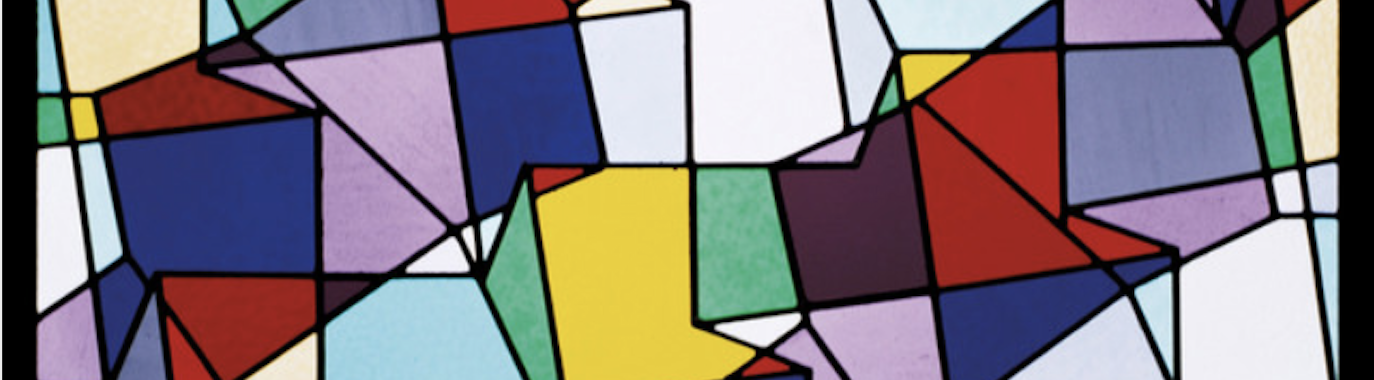
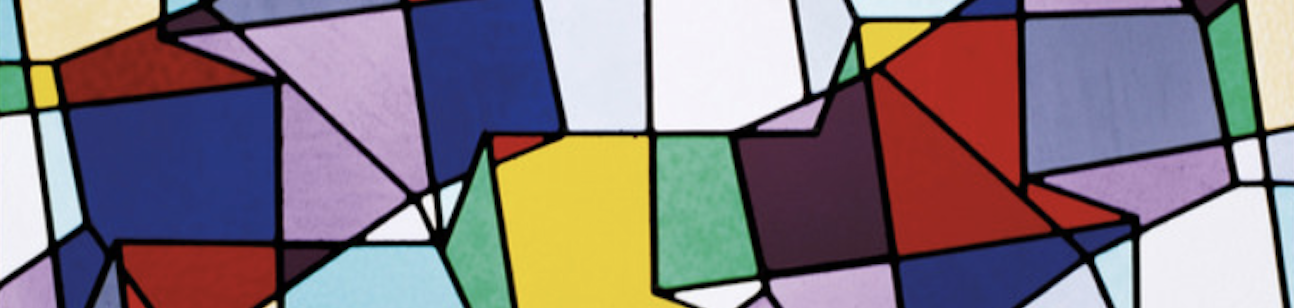
cv

diff --git a/cv.html b/cv.html
@@ -110,7 +110,7 @@ License URL: http://creativecommons.org/licenses/by/3.0/
 <div class="container">
 
 <p align="left" ><font size="5">Anthony Nouy</font></p>
-<p align="left" ><font size="3">Professor at Centrale Nantes</font></p>
+<p align="left" ><font size="3">Professor at Centrale Nantes, Nantes Université</font></p>
 <p align="left" ><font size="3">Department of Mathematics and Computer Science</font></p>
 <p align="left" ><font size="3">Laboratoire de Mathématiques Jean Leray, UMR CNRS 6629</font></p>
 <br>
@@ -161,13 +161,13 @@ Numerical analysis, Approximation theory, Probabilistic numerical methods, Stati
  (french research network) since 2021, and member of its  steering committee since 2011.</li>
 <li>Member of the Administration Board of <a href="http://smai.emath.fr/"> SMAI </a> (Société de Mathématiques Appliquées et Industrielles).</li>
 <li>Member of the bureau of the group <a href="http://smai.emath.fr/spip.php?article406"> SMAI-SIGMA </a> (Signal Image Geometry Modeling Approximation) since 2016.</li>
-<li>Member of the  steering committee of the <a href="https://www.gdr-mascotnum.fr/">  GDR Mascot-Num</a> since 2011.</li>
+<li>Member of the  steering committee of the <a href="https://www.gdr-mascotnum.fr/">  GDR Mascot-Num</a> since 2012.</li>
 <!--<li>Member of the  scientific committee of the <a href="https://calcul.math.cnrs.fr/">  GDR Calcul</a> since 2021.</li>-->
 </ul>
 <br>
 <p><font size="5">Other societal activities</font></p>
 <ul>
-<li> Participation to Research Groups : GDR MoMaS (2008-2011), GDR AMORE (since 2011), GDR MANU (since 2016).</li>
+<li> Participation to Research Groups : GDR MoMaS (2008-2011), GDR AMORE (since 2012), GDR MANU (since 2016), GDR Mascot-Num (since 2011).</li>
 <li> Expert for the funding program of the French National Research Agency (ANR) as member of committee (CES), 2018 et 2019.</li>
 <li> Expert for the funding program of the French National Research Agency (ANR).</li>
 <li> Expert for European Research Council. </li>
@@ -175,24 +175,23 @@ Numerical analysis, Approximation theory, Probabilistic numerical methods, Stati
 <li> Expert for the Swiss National Science Foundation.</li> 
 <li> Expert for INRIA. </li>
 <li> Expert for the funding programme of Ville de Paris.</li>
-<li> Expert for HCERES in 2018, 2019.</li>
-<li> Thesis reviewer at Ecole Normale Supérieure de Cachan, Université Blaise Pascal, Université de Technologie de Compiègne, Ecole des Mines de Douai, Université de Lille, Université Pierre et Marie Curie, Université Paris 13, University of Brno, Technische Universität Braunschweig, ETH Zurich, Université Paris-Est, Université Paris-Sud, Université Joseph Fourier, Université de La Rochelle, Université de Toulouse, Université de Rennes, Université Paris Sciences et Lettres, Université Paris-Saclay, Université de Liège, Université de Lyon, Université Paris Diderot, Université de recherche Paris Sciences et Lettres, Mines Saint-Etienne, Université de Tours, Université de Ulm, ENS Paris-Saclay, Université de Strasbourg.</li>
+<li> Expert for HCERES in 2018, 2019, 2021.</li>
+<li> Thesis reviewer (46) at Ecole Normale Supérieure de Cachan, Université Blaise Pascal, Université de Technologie de Compiègne, Ecole des Mines de Douai, Université de Lille, Université Pierre et Marie Curie, Université Paris 13, University of Brno, Technische Universität Braunschweig, ETH Zurich, Université Paris-Est, Université Paris-Sud, Université Joseph Fourier, Université de La Rochelle, Université de Toulouse, Université de Rennes, Université Paris Sciences et Lettres, Université Paris-Saclay, Université de Liège, Université de Lyon, Université Paris Diderot, Université de recherche Paris Sciences et Lettres, Mines Saint-Etienne, Université de Tours, Université de Ulm, ENS Paris-Saclay, Université de Strasbourg.</li>
 <li> Participation to recruiting committees for positions of assistant or full professors in Université de
-La Rochelle, Université de Nantes, Université Paul Sabatier, Université de Nancy, IFMA Clermont- Ferrand, Ecole Centrale Nantes, Université Paris 6, Université Paris-Est, Mines Saint-Etienne, Centrale Lyon.
+La Rochelle, Université de Nantes, Université Paul Sabatier, Université de Nancy, IFMA Clermont- Ferrand, Ecole Centrale Nantes, Université Paris 6, Université Paris-Est, Mines Saint-Etienne, Centrale Lyon, TU Berlin, Sorbonne Université, Institut Polytechnique de Paris.
 </li>
-<li> Reviewer for international journals: Foundations of Computational Mathematics, SIAM J. Sci-
-entific Computing, Constructive Approximation, SIAM Journal on Matrix Analysis and Applications, SIAM J. Uncertainty Quantification, International Journal for Numerical Methods in Engineering, ESAIM: Mathematical Modelling and Numerical Analysis, Computer Methods in Applied Mechanics and Engineering, Journal of Computational Physics, SIAM Journal on Numerical Analysis, Applied Mathematics and Computation, International Journal for Multiscale Computational Engineering, Physica D : Nonlinear Phenomena, Comptes Rendus de l’Académie des Sciences, European J. for Computa- tional Mechanics, Structural Engineering and Mechanics, Mathematical Problems in Engineering, International J. of Computer Mathematics, Probabilistic Engineering Mechanics, Proceedings of the Royal Society A, Reliability Engineering & System Safety, Applied Mathematics Letters</li>
+<li> Reviewer for international journals: Foundations of Computational Mathematics, SIAM J. Scientific Computing, SIAM Journal on Numerical Analysis, Constructive Approximation, SIAM Journal on Matrix Analysis and Applications, Mathematics of Computation, SIAM J. Uncertainty Quantification, International Journal for Numerical Methods in Engineering, ESAIM: Mathematical Modelling and Numerical Analysis, Computer Methods in Applied Mechanics and Engineering, Journal of Computational Physics, Applied Mathematics and Computation, International Journal for Multiscale Computational Engineering, Physica D : Nonlinear Phenomena, Comptes Rendus de l’Académie des Sciences, European J. for Computational Mechanics, Structural Engineering and Mechanics, Mathematical Problems in Engineering, International J. of Computer Mathematics, Probabilistic Engineering Mechanics, Proceedings of the Royal Society A, Reliability Engineering & System Safety, Applied Mathematics Letters</li>
 </ul>
 <br>
 <p><font size="5">Organization of conferences and workshops</font></p>
 <ul>
  <li>Chairman and organizer of the conference MoRePaS 2018, Nantes, April 10-13, 2018
  </li>
-<li> Chairman and organizer of SMAI 2019.
+<li>Co-Chairman and executive committee of the conference MoRe 2022, Berlin, September 19-23, 2022.
+ </li>
+ <li> Chairman and organizer of SMAI 2019.
  </li>
  <li>Chairman and organizer of the conference Mascot-Num 2018, Nantes, March 21-23, 2018
- </li>
- <li>Co-Chairman and executive committee of the conference MoRe 2022, Berlin, September 19-23, 2022.
  </li>
  <li>Executive committee of the conference Mascot-Num 2019, Rueil-Malmaison, March 18-20, 2019
  </li>

diff --git a/css/style.css b/css/style.css
@@ -999,7 +999,7 @@ ul.footer-grid-list li span{
 
 /*-- banner6 --*/
 .banner6{
-	background: url(../images/hotchip.png) no-repeat 0px 0px;
+	background: url(../images/hotchip.jpg) no-repeat 0px 0px;
     background-size: cover;
     -webkit-background-size: cover;
     -moz-background-size: cover;
